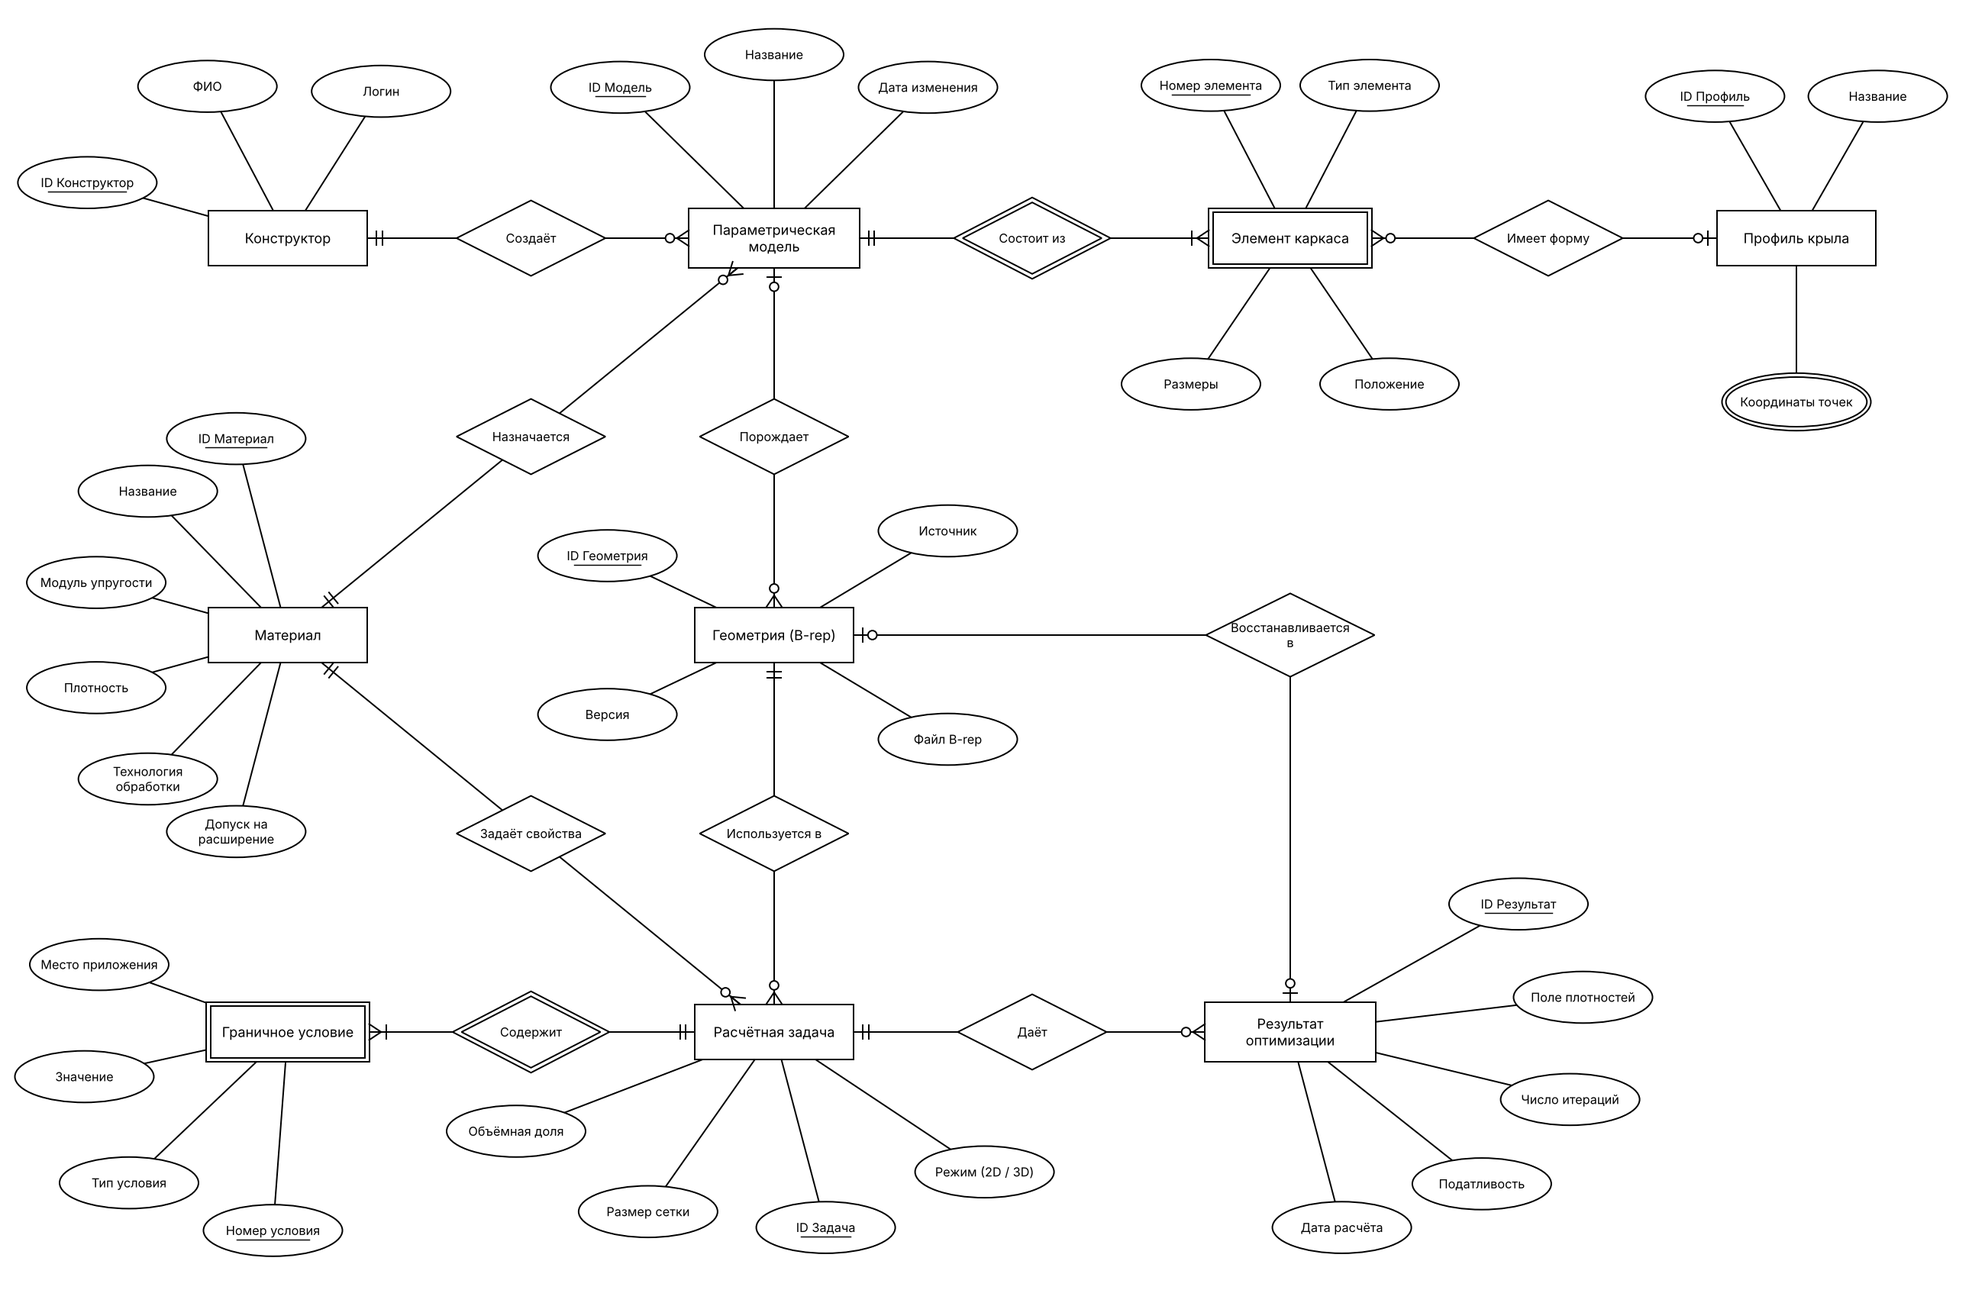
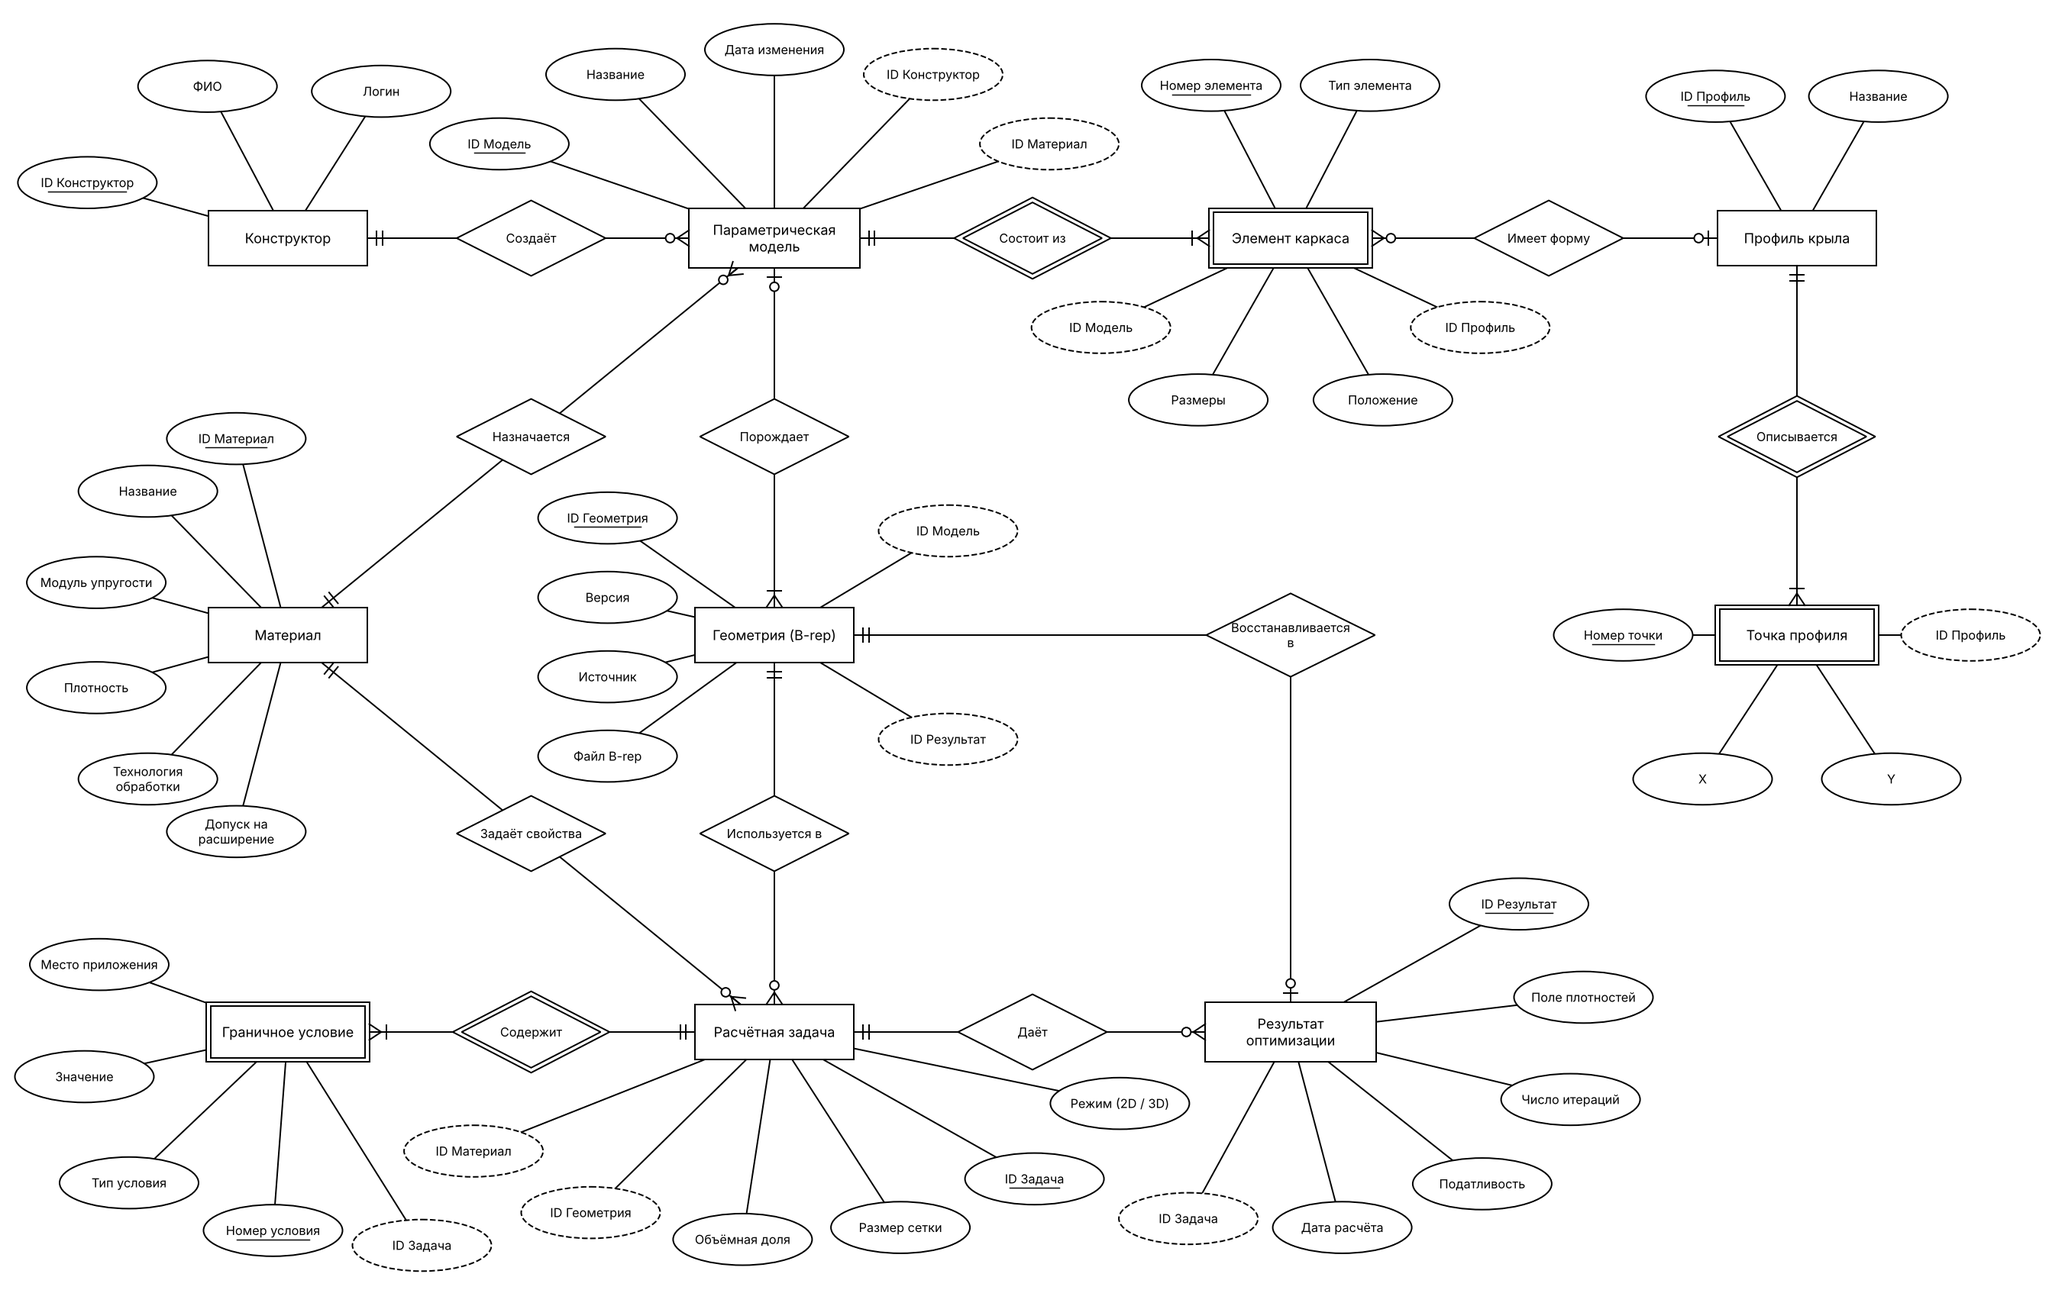
docs(erd): logical-level model, fix geometry cardinalities
- "Порождает": a model always yields at least one geometry (1..N).
- "Восстанавливается в": every result is restored into exactly one
  geometry (1).
- Foreign keys are back as dashed ovals, as in the example slide.
- Multivalued "координаты точек" replaced by the dependent entity
  "Точка профиля" (1NF), related to "Профиль крыла" 1*n.
- README 6.7: logical model, entity table with foreign keys,
  relationship table with reasons for every optional end.

diff --git a/README.md b/README.md
@@ -239,7 +239,7 @@ flowchart LR
 | Поведенческая | П3. Сценарий оптимизации детали | Диаграмма последовательности | Корректность, изготовимость |
 | Развёртывания | П4. ПК и домашний сервер | Диаграмма развёртывания | Переносимость, конфиденциальность |
 | Функциональная (потоки данных) | П5. Процессы, потоки и хранилища | DFD, нотация Гейна–Сарсона: уровни A-0, A0, A1 (раздел 6.6) | Какие данные где хранятся, кто их пишет и читает |
-| Информационная | П6. Модель данных | ERD, нотация Чена (раздел 6.7) | Состав хранилищ, ключи и связи |
+| Информационная | П6. Логическая модель данных | ERD, нотация Чена (раздел 6.7) | Состав хранилищ, ключи и связи |
 
 **П1. Контекстная диаграмма**
 
@@ -439,44 +439,48 @@ flowchart TB
 - нет потоков «внешняя сущность ↔ хранилище» и «хранилище ↔ хранилище»;
 - потоки A1 совпадают с потоками процесса 1 на A0 (баланс уровней).
 
-### 6.7 Модель данных (ERD, нотация Чена)
+### 6.7 Логическая модель данных (ERD, нотация Чена)
 
 ERD детализирует хранилища D1–D5 из раздела 6.6: из каких сущностей они состоят, какие у сущностей атрибуты и как сущности связаны. Сущности — прямоугольники, отношения — ромбы, атрибуты — овалы. Значение каждой связи показано значком «воронья лапка» у сущности: ‖ — «1», o| — «0 или 1», |< — «1 или более», o< — «0 или более». Исходник — [docs/erd.drawio](docs/erd.drawio), открывается на app.diagrams.net.
+
+Диаграмма построена на логическом уровне: у сущностей все атрибуты, ключевые и внешние ключи, связи только 1*1 и 1*n, данные в первой нормальной форме. Поэтому многозначный атрибут «координаты точек» вынесен в зависимую сущность «Точка профиля». Типы данных и индексы относятся к физическому уровню и здесь не показаны.
 
 **П6. ER-диаграмма**
 
 ![ER-диаграмма Cad+ в нотации Чена](docs/erd.png)
 
-Двойная рамка — зависимая сущность, двойной ромб — отношение с ней. Подчёркнутый атрибут — ключевой, двойной овал — многозначный атрибут.
+Двойная рамка — зависимая сущность, двойной ромб — отношение с ней. Подчёркнутый атрибут — ключевой, пунктирный овал — внешний ключ.
 
-| Сущность | Хранилище DFD | Ключевой атрибут | Остальные атрибуты |
-|---|---|---|---|
-| Конструктор | — (на DFD — внешняя сущность) | ID Конструктор | ФИО, логин |
-| Параметрическая модель | D1 | ID Модель | название, дата изменения |
-| Элемент каркаса (зависимая) | D1 | Номер элемента | тип элемента, положение, размеры |
-| Профиль крыла | D1 | ID Профиль | название, координаты точек (многозначный) |
-| Материал | D5 | ID Материал | название, модуль упругости, плотность, технология обработки, допуск на расширение |
-| Геометрия (B-rep) | D2 | ID Геометрия | версия, источник, файл B-rep |
-| Расчётная задача | D3 | ID Задача | режим (2D / 3D), размер сетки, объёмная доля |
-| Граничное условие (зависимая) | D3 | Номер условия | тип условия, значение, место приложения |
-| Результат оптимизации | D4 | ID Результат | поле плотностей, число итераций, податливость, дата расчёта |
+| Сущность | Хранилище DFD | Ключевой атрибут | Внешние ключи | Остальные атрибуты |
+|---|---|---|---|---|
+| Конструктор | — (на DFD — внешняя сущность) | ID Конструктор | — | ФИО, логин |
+| Параметрическая модель | D1 | ID Модель | ID Конструктор, ID Материал | название, дата изменения |
+| Элемент каркаса (зависимая) | D1 | Номер элемента | ID Модель, ID Профиль | тип элемента, положение, размеры |
+| Профиль крыла | D1 | ID Профиль | — | название |
+| Точка профиля (зависимая) | D1 | Номер точки | ID Профиль | X, Y |
+| Материал | D5 | ID Материал | — | название, модуль упругости, плотность, технология обработки, допуск на расширение |
+| Геометрия (B-rep) | D2 | ID Геометрия | ID Модель, ID Результат | версия, источник, файл B-rep |
+| Расчётная задача | D3 | ID Задача | ID Геометрия, ID Материал | режим (2D / 3D), размер сетки, объёмная доля |
+| Граничное условие (зависимая) | D3 | Номер условия | ID Задача | тип условия, значение, место приложения |
+| Результат оптимизации | D4 | ID Результат | ID Задача | поле плотностей, число итераций, податливость, дата расчёта |
 
-Значок стоит у той сущности, к которой подходит связь, и показывает, сколько её экземпляров участвует в отношении. Пара значений одного отношения определяет его тип.
+Значок стоит у той сущности, к которой подходит связь, и показывает, сколько её экземпляров приходится на один экземпляр сущности на другом конце. Пара значений одного отношения определяет его тип.
 
 | Отношение | Сущность А и значение связи | Сущность Б и значение связи | Тип | Смысл |
 |---|---|---|---|---|
-| Создаёт | Конструктор — «1» | Параметрическая модель — «0 или более» | 1*n | У модели один автор |
+| Создаёт | Конструктор — «1» | Параметрическая модель — «0 или более» | 1*n | У модели один автор; новый конструктор может ещё ничего не создать |
 | Состоит из | Параметрическая модель — «1» | Элемент каркаса — «1 или более» | 1*n | Элемент не существует без модели |
-| Имеет форму | Элемент каркаса — «0 или более» | Профиль крыла — «0 или 1» | 1*n | У лонжерона профиля нет |
+| Имеет форму | Элемент каркаса — «0 или более» | Профиль крыла — «0 или 1» | 1*n | У лонжерона и стрингеров профиля нет |
+| Описывается | Профиль крыла — «1» | Точка профиля — «1 или более» | 1*n | Контур профиля — набор точек |
 | Назначается | Материал — «1» | Параметрическая модель — «0 или более» | 1*n | Модели назначен один материал |
-| Порождает | Параметрическая модель — «0 или 1» | Геометрия — «0 или более» | 1*n | Геометрия из STEP не имеет модели |
-| Используется в | Геометрия — «1» | Расчётная задача — «0 или более» | 1*n | Задача строится по одной геометрии |
+| Порождает | Параметрическая модель — «0 или 1» | Геометрия — «1 или более» | 1*n | Модель всегда строится в геометрию; у геометрии из STEP модели нет |
+| Используется в | Геометрия — «1» | Расчётная задача — «0 или более» | 1*n | Задача строится по одной геометрии; геометрию можно не оптимизировать |
 | Задаёт свойства | Материал — «1» | Расчётная задача — «0 или более» | 1*n | Материал нужен и для геометрии из STEP |
 | Содержит | Расчётная задача — «1» | Граничное условие — «1 или более» | 1*n | Без нагрузок и закреплений считать нечего |
-| Даёт | Расчётная задача — «1» | Результат оптимизации — «0 или более» | 1*n | Перезапуски с другими настройками |
-| Восстанавливается в | Результат оптимизации — «0 или 1» | Геометрия — «0 или 1» | 1*1 | Замыкает цикл, как поток 5 → D2 на DFD |
+| Даёт | Расчётная задача — «1» | Результат оптимизации — «0 или более» | 1*n | Расчёт можно остановить или он может упасть — тогда результата нет |
+| Восстанавливается в | Результат оптимизации — «0 или 1» | Геометрия — «1» | 1*1 | Каждый результат восстанавливается в геометрию; у геометрии по параметрам или из STEP результата нет |
 
-Отношений типа n*m (многие-к-многим) нет: все отношения — 1*1 (один-к-одному) или 1*n (один-к-многим).
+Отношений типа n*m (многие-к-многим) нет: все отношения — 1*1 (один-к-одному) или 1*n (один-к-многим). Внешний ключ хранится на стороне «много», для отношения 1*1 — в «Геометрии».
 
 ---
 
